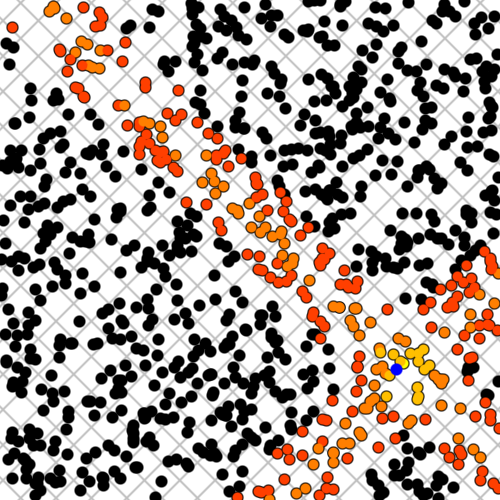
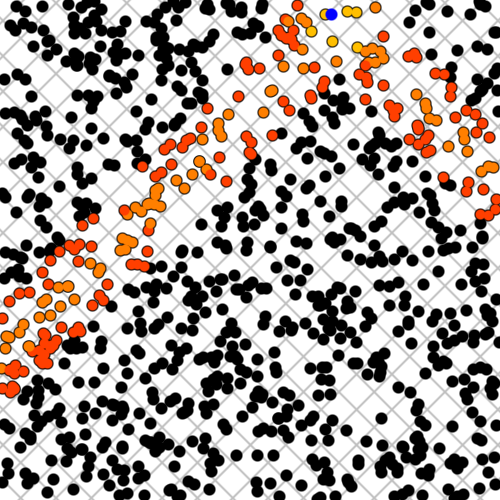
blue noise begin

diff --git a/main.cpp b/main.cpp
@@ -206,6 +206,57 @@ void GeneratePointHashDatas_WhiteNoise(std::array<PointHashData, HASHCOUNT()>& h
     }
 }
 
+// -------------------------------------------------------------------------------
+
+void GeneratePointHashDatas_BlueNoise(std::array<PointHashData, HASHCOUNT()>& hashDatas)
+{
+    static_assert(DIMENSION() == 2, "This function only works with 2d rotation matrices");
+
+    std::uniform_real_distribution<float> dist_angle(0.0f, 2.0f * c_pi);
+    std::uniform_real_distribution<float> dist_offset(0.0f, 1.0f);
+
+    for (int hashIndex = 0; hashIndex < HASHCOUNT(); ++hashIndex)
+    {
+        int numCandidates = hashIndex * 20 + 1;
+
+        PointHashData bestPointHashData;
+
+        for (int candidateIndex = 0; candidateIndex < numCandidates; ++candidateIndex)
+        {
+            float candidateAngle = dist_angle(RNG());
+            float candidateDistance = dist_offset(RNG());
+
+            PointHashData candidatePointHashData;
+
+            float angle = dist_angle(RNG());
+
+            float cosTheta = std::cosf(angle);
+            float sinTheta = std::sinf(angle);
+
+            candidatePointHashData.rotation = { cosTheta, -sinTheta,
+                                                sinTheta,  cosTheta };
+
+            candidatePointHashData.offsetX = dist_offset(RNG());
+
+            if (candidateIndex == 0)
+            {
+                bestPointHashData = candidatePointHashData;
+                continue;
+            }
+
+            // TODO: take this new candidate as best if it's better than the current best
+            // Do a frobenius inner product to get an angular comparison.
+            // unsure how to combine angular and offset values into a score though.
+            // maybe put the offset off for now and just do frobenius inner product.
+        }
+
+        // keep the best
+        hashDatas[hashIndex] = bestPointHashData;
+    }
+}
+
+// -------------------------------------------------------------------------------
+
 void GeneratePointHashDatas_Uniform(std::array<PointHashData, HASHCOUNT()>& hashDatas)
 {
     static_assert(DIMENSION() == 2, "This function only works with 2d rotation matrices");
@@ -635,6 +686,7 @@ int main(int argc, char** argv)
 
     // add the points to the locality sensitive hashing
     LHS lhs_whiteNoise(points, GeneratePointHashDatas_WhiteNoise);
+    LHS lhs_blueNoise(points, GeneratePointHashDatas_BlueNoise);
     LHS lhs_uniform(points, GeneratePointHashDatas_Uniform);
     LHS lhs_goldenRatio(points, GeneratePointHashDatas_GoldenRatio);
 
@@ -648,6 +700,7 @@ int main(int argc, char** argv)
         printfPoint("Query Point", queryPoint);
 
         ReportQuery(lhs_whiteNoise, queryPoint, points, "whiteNoise");
+        ReportQuery(lhs_blueNoise, queryPoint, points, "blueNoise");
         ReportQuery(lhs_uniform, queryPoint, points, "uniform");
         ReportQuery(lhs_goldenRatio, queryPoint, points, "goldenRatio");
     }
@@ -696,6 +749,7 @@ Links:
  * talks about simplices fighting the curse of dimensionality.
  * regular simplices can't tile higher dimensions though so it has an alternate formulation.
 - maybe some blue noise articles?
+* frobenius inner product for checking similarity of rotation matrices: https://en.wikipedia.org/wiki/Frobenius_inner_product
 * random rotation matrices: https://en.wikipedia.org/wiki/Rotation_matrix#Uniform_random_rotation_matrices
 
 Notes:
